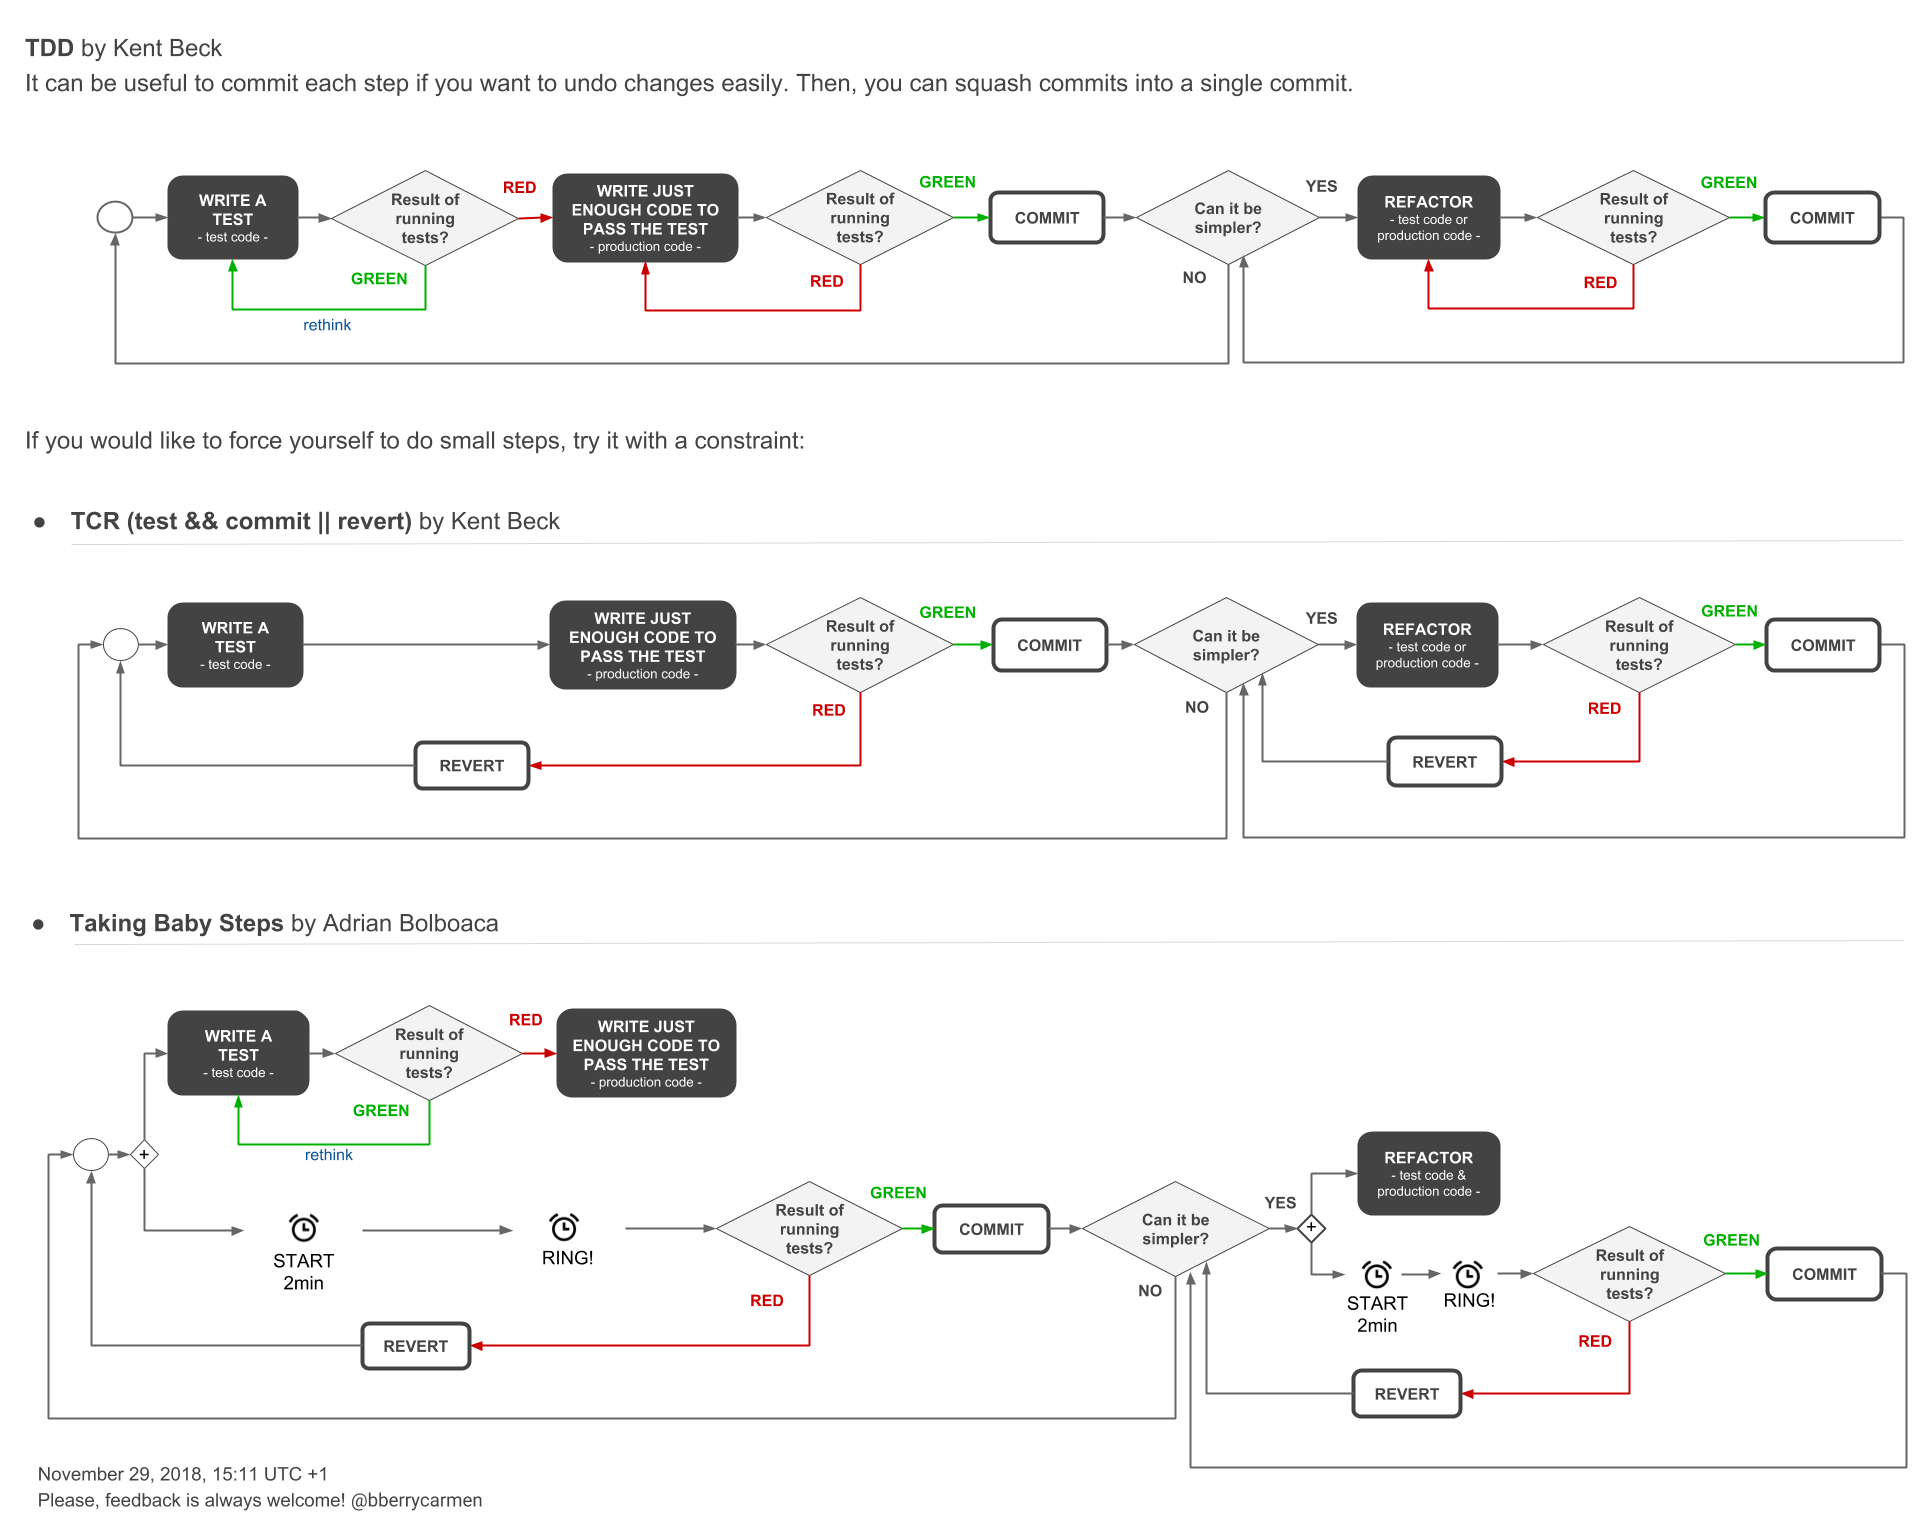
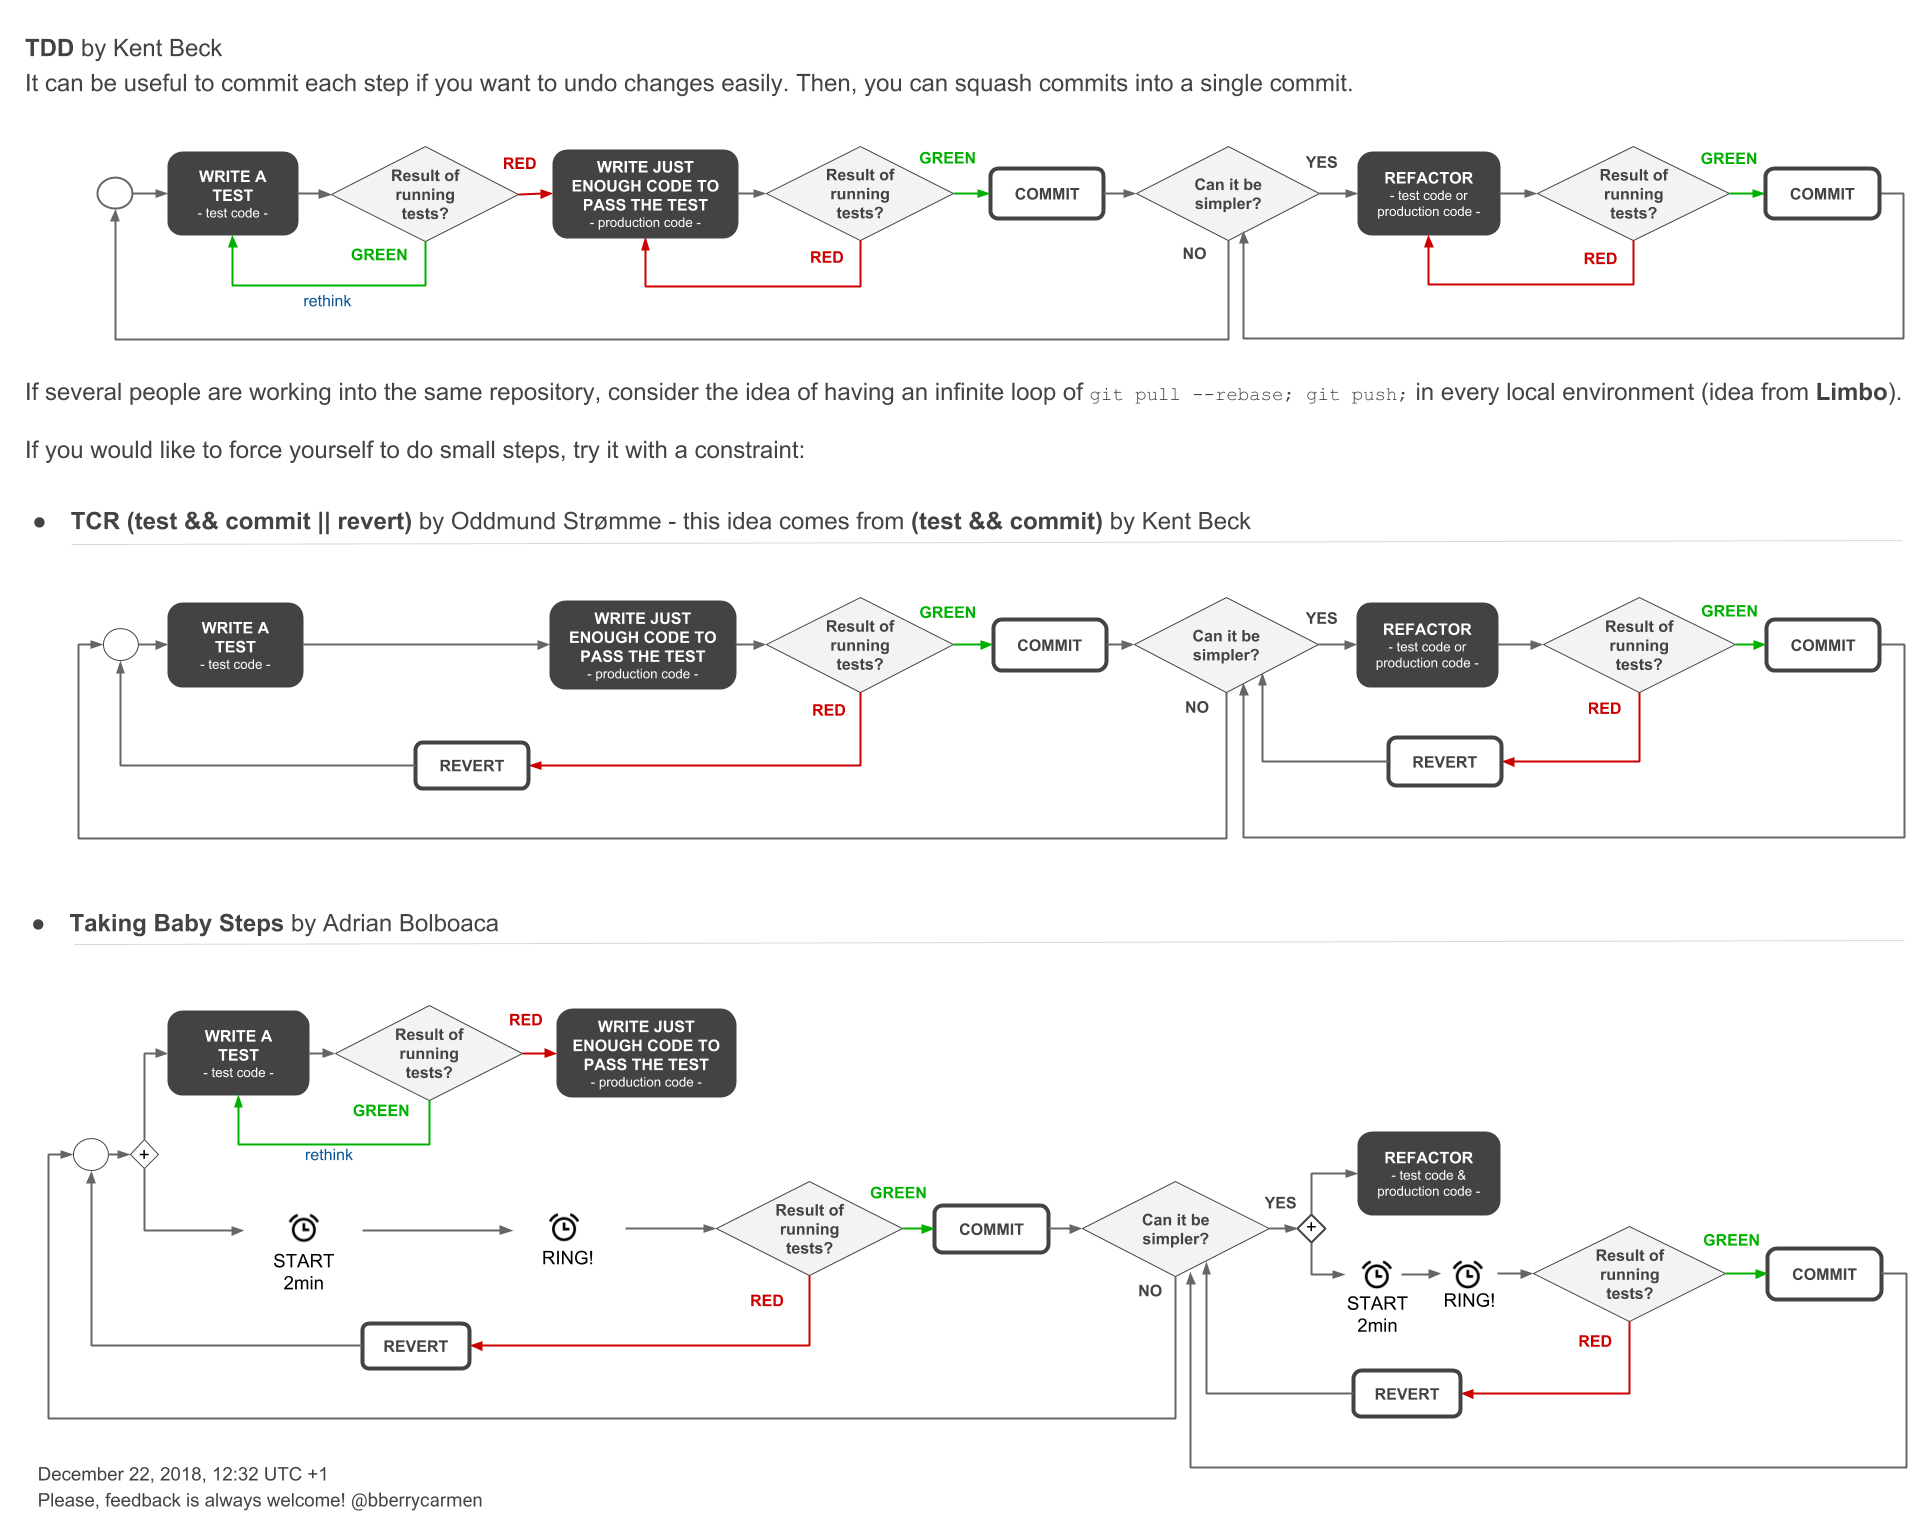
Updating post: fixing the author of TCR

Changed region(s): [[0.0, 0.0938, 1.0, 0.3438]]

diff --git a/_posts/2018-11-13-test-driven-programming-workflows.md b/_posts/2018-11-13-test-driven-programming-workflows.md
@@ -29,13 +29,19 @@ After a few minutes:
 
 > I think it would be a good idea to have these workflows in a digital format
 
+A few days later:
+
+> Oh! We read too quickly. TCR was formulated by Oddmund Strømme...
+
+> It comes from the idea of "test && commit" by Kent Beck
+
 ## The goal
 
 The goal is to see the differences between test-driven programming workflows clearly:
 
 * Test-driven development (TDD) by Kent Beck
 * Using constraints to force yourself to do small steps:
-    * <a href="https://medium.com/@kentbeck_7670/test-commit-revert-870bbd756864" target="_blank">test && commit || revert (TCR)</a> by Kent Beck
+    * <a href="https://medium.com/@kentbeck_7670/test-commit-revert-870bbd756864" target="_blank">test && commit || revert (TCR)</a> by <a href="https://twitter.com/jraregris" target="_blank">Oddmund Strømme</a>. This idea comes from `test && commit` by Kent Beck
     * <a href="http://blog.adrianbolboaca.ro/2013/03/taking-baby-steps" target="_blank">Taking Baby Steps</a> by Adrian Bolboaca
 
 Recently I added 3 further workflows. They come from the idea of TCR, but trying not to miss the red step:
@@ -65,8 +71,11 @@ The video doesn't have one detail between writing the test code and writing just
 
 However, the result of running tests is not checked with TCR, between writing the test code and writing just enough code to pass the test.
 
-## Further reading
-<a href="https://twitter.com/deniffel">Thomas Deniffel</a> wrote an awesome <a href="https://medium.com/@tdeniffel/tcr-variants-test-commit-revert-bf6bd84b17d3" target="_blank">post with a lot of TCR Variants</a>.
+## Further knowledge
+
+* <a href="https://hanselminutes.com/663/test-commit-revert-with-kent-beck" target="_blank">The Hanselminutes podcast by Scott Hanselman: test && commit || revert with Kent Beck</a>
+* <a href="https://twitter.com/deniffel" target="_blank">Thomas Deniffel</a> wrote an awesome <a href="https://medium.com/@tdeniffel/tcr-variants-test-commit-revert-bf6bd84b17d3" target="_blank">post with a lot of TCR Variants</a>
+* <a href="https://www.reddit.com/r/tcrProgramming/" target="_blank">Reddit-community for TCR</a>
 
 ## Acknowledgments
 
